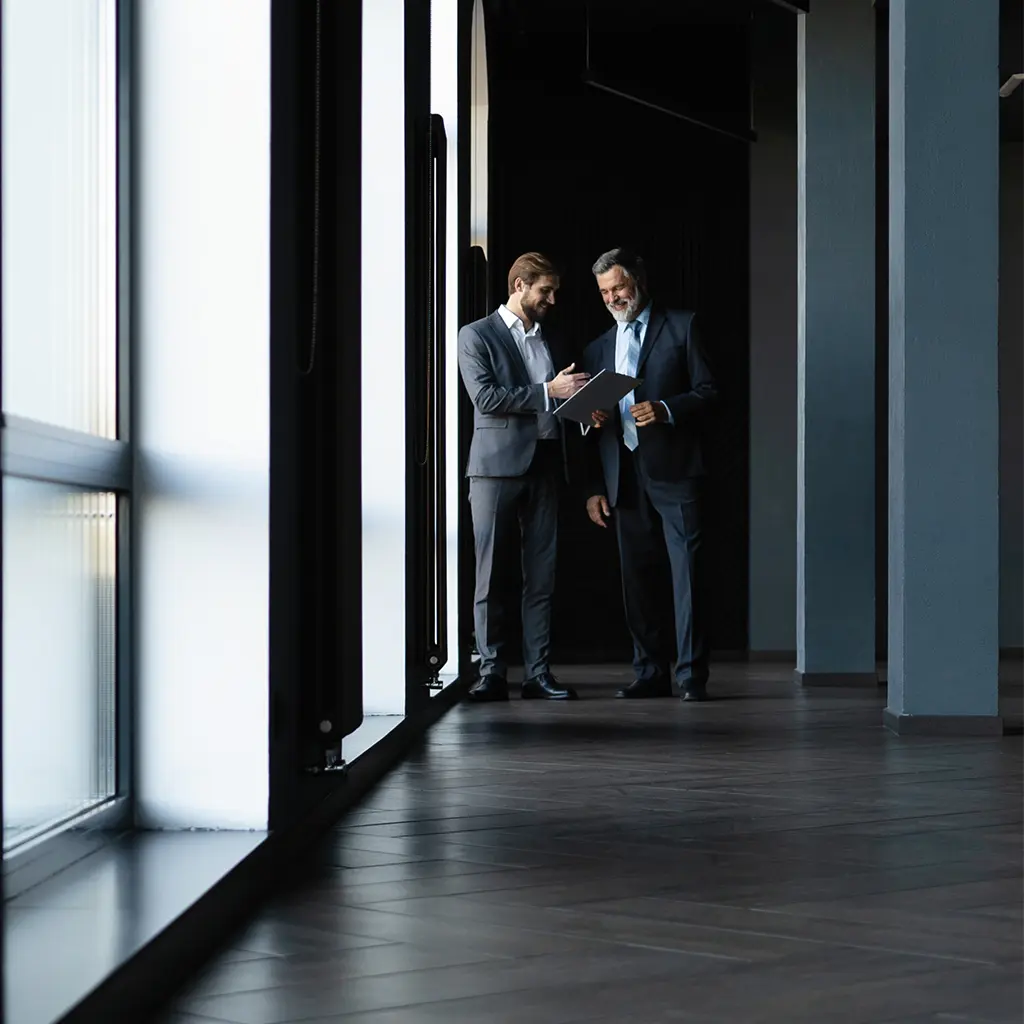
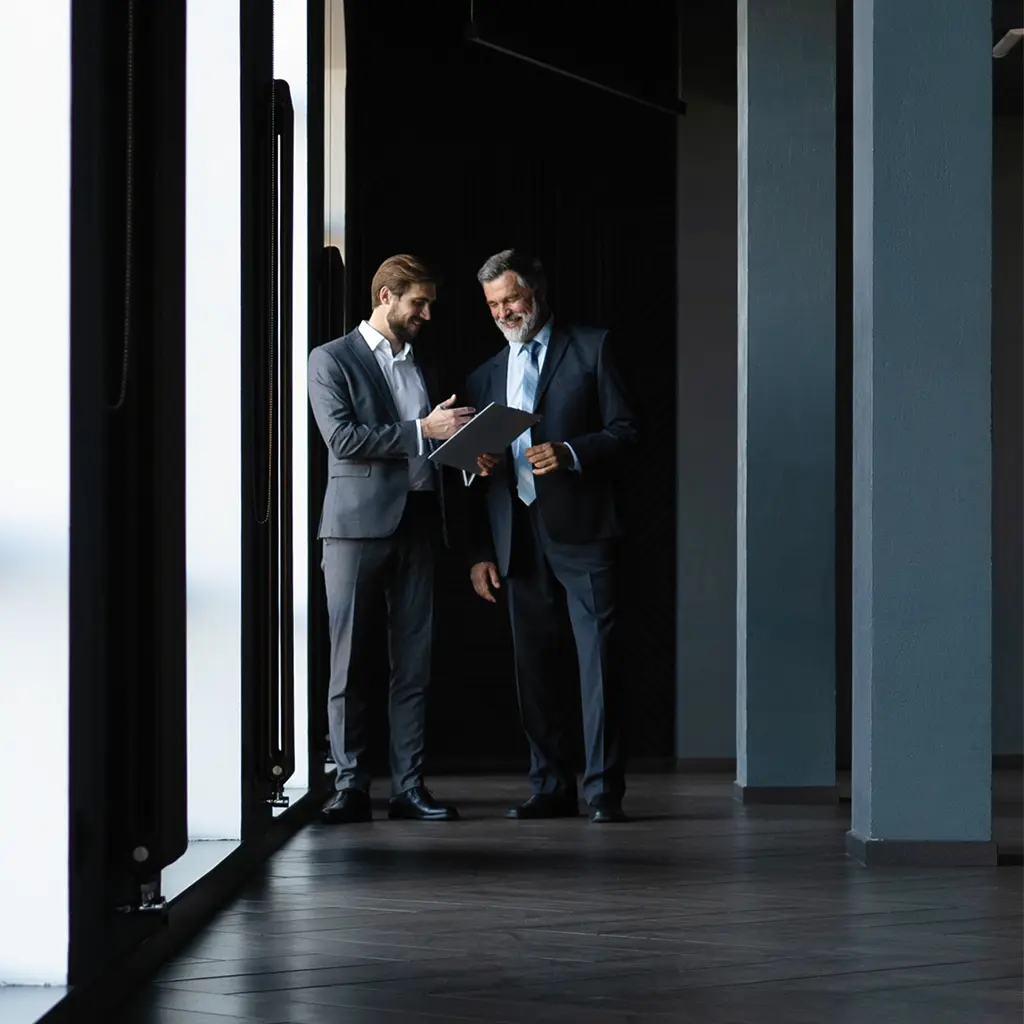
Update images and contact page layout

diff --git a/src/components/forms/contact-form.tsx b/src/components/forms/contact-form.tsx
@@ -98,7 +98,11 @@ export default function ContactForm () {
             <FormItem>
               <FormLabel>Tu nombre</FormLabel>
               <FormControl>
-                <Input className='text-background' placeholder='¿Cuál es tu nombre?' {...field} />
+                <Input
+                  className='text-background rounded-none'
+                  placeholder='¿Cuál es tu nombre?'
+                  {...field}
+                />
               </FormControl>
               <FormMessage />
             </FormItem>
@@ -112,7 +116,7 @@ export default function ContactForm () {
               <FormLabel>Email</FormLabel>
               <FormControl>
                 <Input
-                  className='text-background'
+                  className='text-background rounded-none'
                   placeholder='correo@ejemplo.com'
                   {...field}
                 />
@@ -133,11 +137,11 @@ export default function ContactForm () {
                   field.onChange(value)}
               >
                 <FormControl>
-                  <SelectTrigger className='[&>*]:text-background'>
+                  <SelectTrigger className='[&>*]:text-background rounded-none'>
                     <SelectValue placeholder={field.value} />
                   </SelectTrigger>
                 </FormControl>
-                <SelectContent>
+                <SelectContent className='rounded-none'>
                   <SelectGroup>
                     {services.items.map(
                       (service) => (
@@ -145,6 +149,7 @@ export default function ContactForm () {
                           key={service.title}
                           value={service.title}
                           placeholder='Selecciona una categoría'
+                          className='rounded-none hover:cursor-pointer'
                         >
                           {service.title}
                         </SelectItem>
@@ -165,7 +170,7 @@ export default function ContactForm () {
               <FormLabel>Asunto</FormLabel>
               <FormControl>
                 <Textarea
-                  className='resize-none text-background'
+                  className='resize-none text-background rounded-none'
                   rows={4}
                   placeholder='Cúentanos sobre tu proyecto'
                   {...field}

diff --git a/src/app/(lobby)/contacto/page.tsx b/src/app/(lobby)/contacto/page.tsx
@@ -1,5 +1,6 @@
-import ContactForm from '@/components/forms/contact-form'
 import { type Metadata } from 'next'
+import Image from 'next/image'
+import ContactForm from '@/components/forms/contact-form'
 
 export const metadata: Metadata = {
   metadataBase: new URL(process.env.NEXT_PUBLIC_APP_URL!),
@@ -10,16 +11,31 @@ export const metadata: Metadata = {
 export default function ContactPage () {
   return (
     <>
-      <section className='px-4 mt-spacing-9'>
-        <div className='max-w-4xl mx-auto'>
-          <h1 className='f-display-1'>
-            Pongámonos en contacto
-          </h1>
-          <div className='mt-spacing-7'>
-            <ContactForm />
+      <div className='mt-spacing-9'>
+        <div className='container border-t'>
+          <div className='mt-spacing-3'>
+            <h1 className='f-heading-1 font-serif md:pr-9 lg:pr-11'>
+              Ponte en contacto con nosotros
+            </h1>
+          </div>
+          <div className='cols-container mt-spacing-6'>
+            <div className='w-full lg:w-5-cols xl:w-6-cols relative mt-12 lg:mt-0 order-2 lg:order-1'>
+              <ContactForm />
+            </div>
+            <div className='w-full lg:w-7-cols xl:w-6-cols order-1 lg:order-2'>
+              <Image
+                src='/images/contact-hero.webp'
+                alt='Dos hombres de negocios discutiendo en una oficina moderna'
+                width={2840}
+                height={2840}
+                sizes='(max-width: 744px) 100vw, (max-width: 1280px) 100vw, (max-width: 1440px) 100vw, 100vw'
+                loading='lazy'
+                className='w-full'
+              />
+            </div>
           </div>
         </div>
-      </section>
+      </div>
     </>
   )
 }

diff --git a/src/config/organization.ts b/src/config/organization.ts
@@ -2,7 +2,7 @@ import { NavItem, type Article, type Section } from '@/types'
 
 export const culture: Section = {
   title: 'Nuestra cultura',
-  description: 'Aquí te presentamos los mas importantes para nosotros, mismos que forman parte de nuestro ADN y que son la clave en la generación de soluciones de valor para nuestros clientes.',
+  description: 'Aquí te presentamos los más importantes para nosotros, mismos que forman parte de nuestro ADN y que son la clave en la generación de soluciones de valor para nuestros clientes.',
   items: [
     {
       title: 'Trabajamos en equipo',

diff --git a/src/app/(lobby)/cultura/page.tsx b/src/app/(lobby)/cultura/page.tsx
@@ -30,7 +30,7 @@ export default function CulturaPage () {
         </div>
         <div className='full-bleed-container mt-spacing-7'>
           <Image
-            src='/images/about-hero.webp'
+            src='/images/cultura-hero.webp'
             alt='Un joven y feliz hombre de negocios está escribiendo en una computadora portátil mientras trabaja remotamente desde la cafetería'
             width={3200}
             height={2400}
